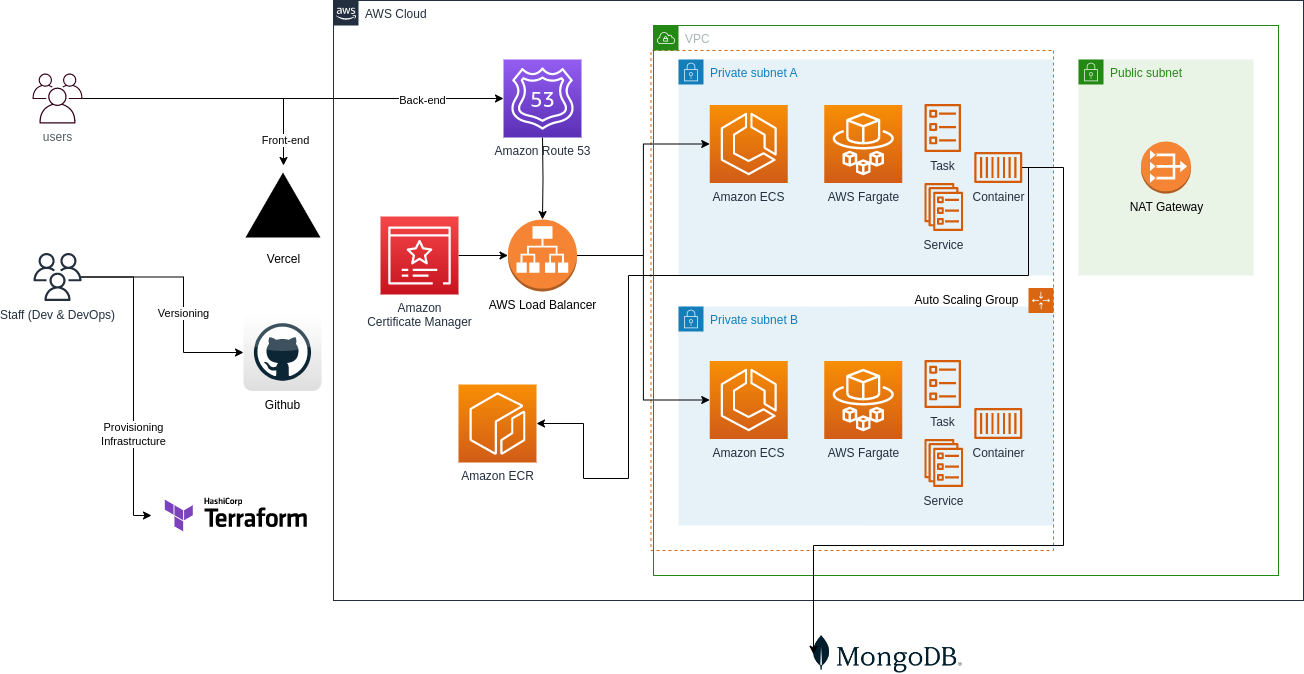
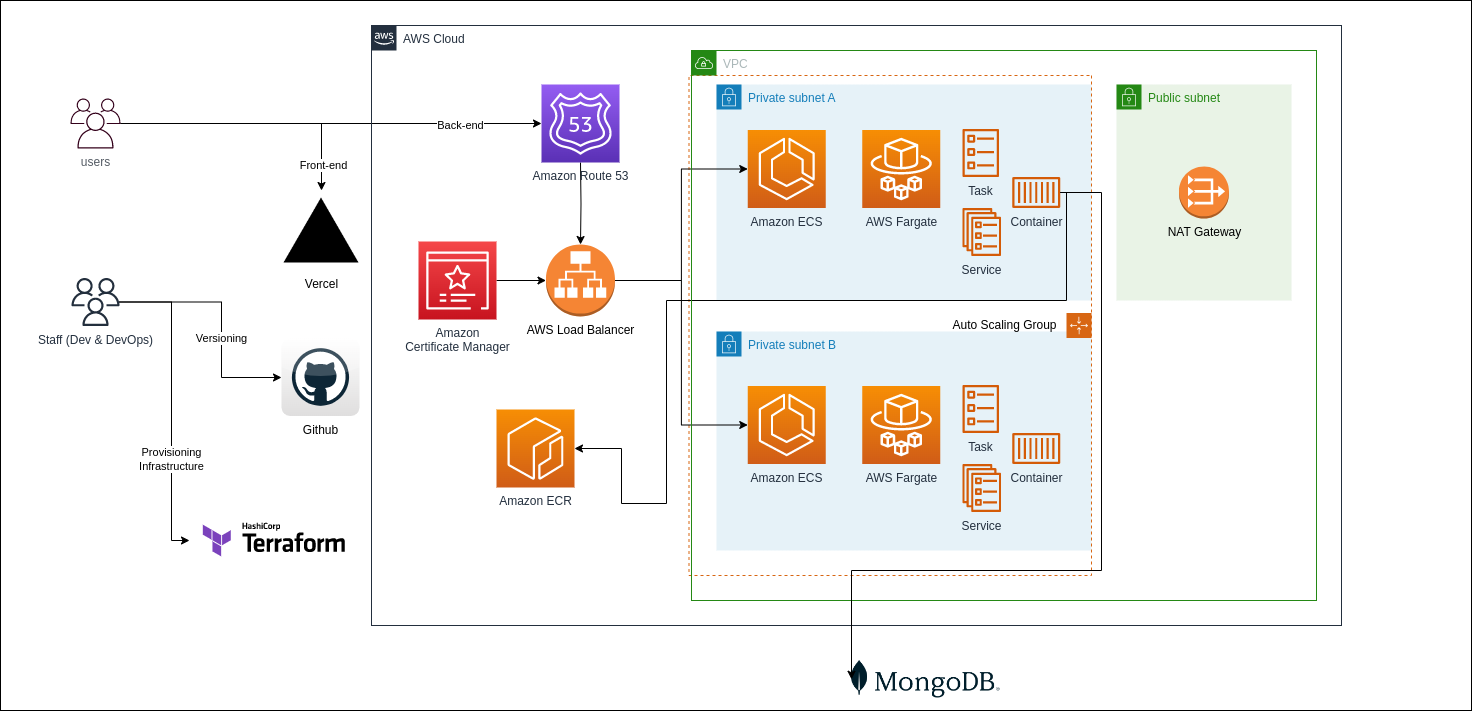
fix: fixing architecture background

diff --git a/README.md b/README.md
@@ -1,5 +1,7 @@
 # Equitrip
 
+![Equitrip Logo](./equitrip_logo.png)
+
 ### Quem somos?
 
 Nós somos um grupo de jovens instigados por problemas, movidos por desafios e com vontade de solucioná-los. 
